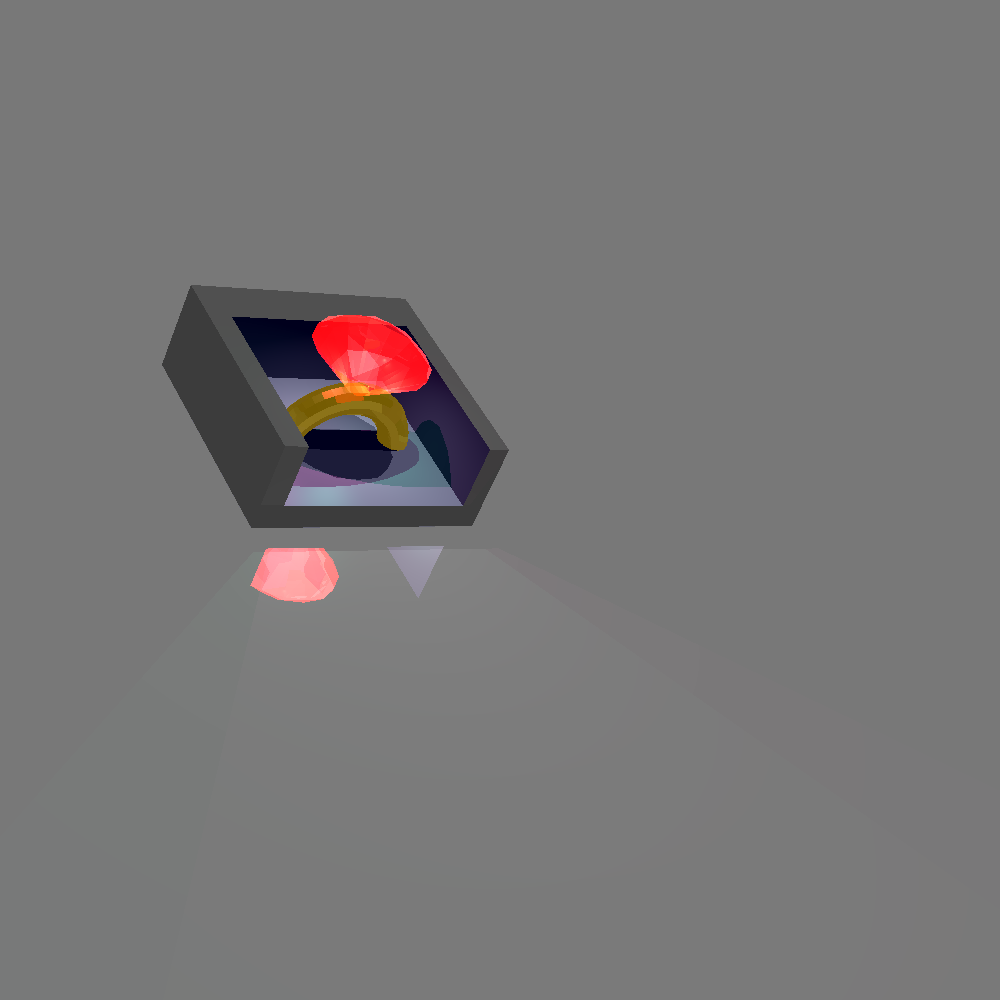
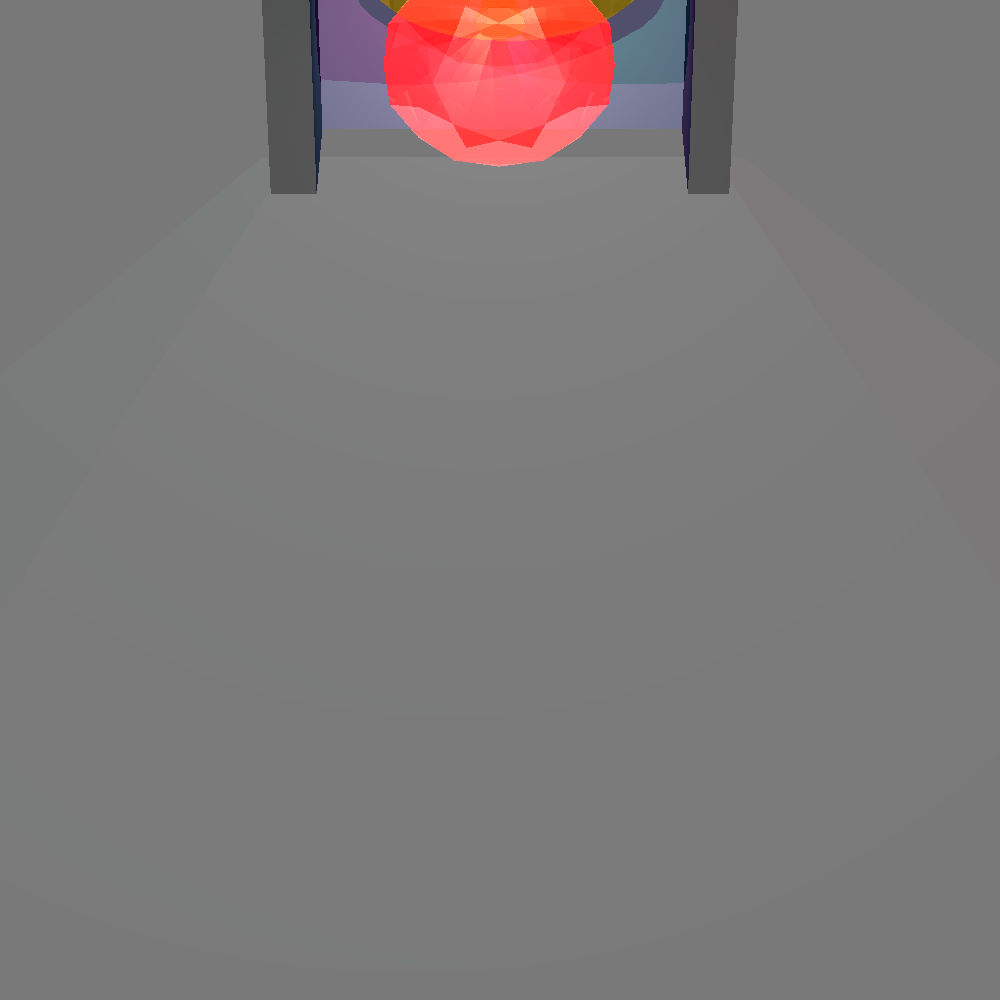
fixed issue with the distance

Changed region(s): [[0.248, 0.0, 0.744, 0.217], [0.155, 0.279, 0.527, 0.62]]

diff --git a/unittests/renderer/FunTests.java b/unittests/renderer/FunTests.java
@@ -59,10 +59,9 @@ public class FunTests {
                     .setDebugPrint(0.1)
                     .setDirection(new Vector(0, 1, -0.1).normalize(), new Vector(0, 1, 10).normalize())
                     .setLocation(new Point(0, -320, 40))
-                    .setVpDistance(315)
+                    .setVpDistance(500)
                     .setVpSize(150, 150)
-                    .orbitAroundTargetHorizontal(-90)
-                    .orbitAroundTargetVertical(-90)
+                    .orbitAroundTargetVertical(-45, 315)
                     .build()
                     .renderImage()
                     .writeToImage("crown");
@@ -70,7 +69,7 @@ public class FunTests {
         }, "Failed to render image");
     }
     @Test
-    public void diamondRing() {
+    public void DiamondRing() {
         assertDoesNotThrow(() -> {
                     Scene scene = JsonScene.CreateScene("jsonScenes/diamondRing.json");
                     Blackboard blackboard = new Blackboard.Builder()
@@ -85,14 +84,14 @@ public class FunTests {
                             .setDebugPrint(1)
                             .setDirection(new Vector(0, 1, -0.1).normalize(), new Vector(0, 0.1, 1).normalize())
                             .setLocation(new Point(0, -350, 60))//Point(0, 130, 30)
-                            .setVpDistance(315)
+                            .setVpDistance(500)
                             .setResolution(1000,1000)
                             .setRayTracer(scene, RayTracerType.SIMPLE)
                             .setVpSize(150, 150);
 
                     camera
-                            .orbitAroundTargetVertical(-35)
-                            .orbitAroundTargetHorizontal(-35)
+                            //.orbitAroundTargetHorizontal(180, 350)
+                            .orbitAroundTargetVertical(-120, 315)
                             .build()
                             .renderImage()
                             .writeToImage("DiamondRing");

diff --git a/src/renderer/Camera.java b/src/renderer/Camera.java
@@ -339,8 +339,8 @@ public class Camera implements Cloneable {
          * @param angleDegrees The angle in degrees to rotate.
          * @return The builder instance.
          */
-        public Builder orbitAroundTargetHorizontal(double angleDegrees) {
-            Point target = cam.p0.add(cam.Vto.scale(cam.distance));
+        public Builder orbitAroundTargetHorizontal(double angleDegrees, double distance) {
+            Point target = cam.p0.add(cam.Vto.scale(distance));
 
             Vector axis = cam.Vup;
 
@@ -361,8 +361,8 @@ public class Camera implements Cloneable {
          * @param angleDegrees The angle in degrees to rotate.
          * @return The builder instance.
          */
-        public Builder orbitAroundTargetVertical(double angleDegrees) {
-            Point target = cam.p0.add(cam.Vto.scale(cam.distance));
+        public Builder orbitAroundTargetVertical(double angleDegrees, double distance) {
+            Point target = cam.p0.add(cam.Vto.scale(distance));
             Vector axis = cam.Vright;
             Vector toCamera = cam.p0.subtract(target);
 
